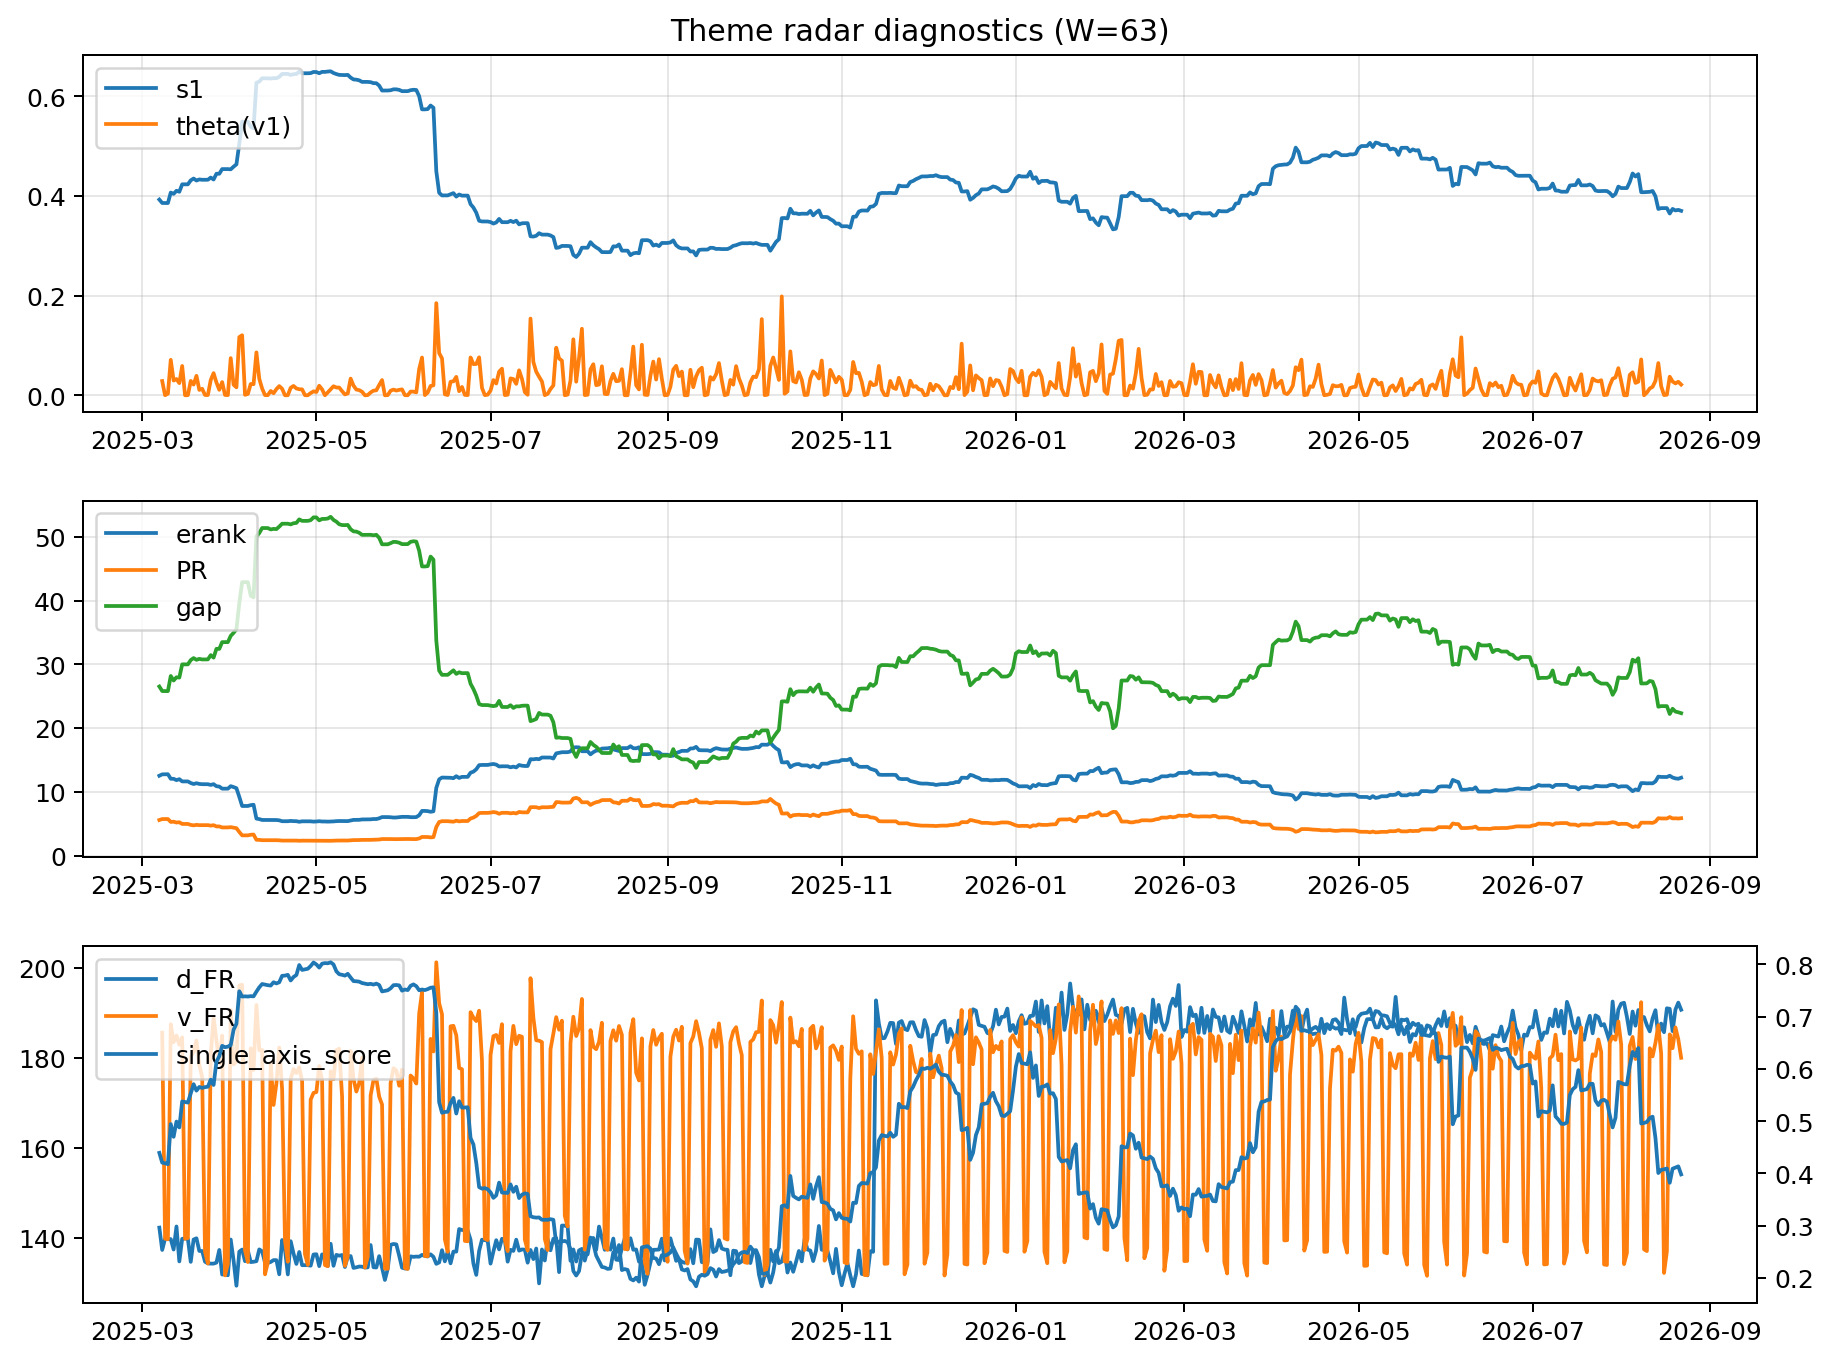
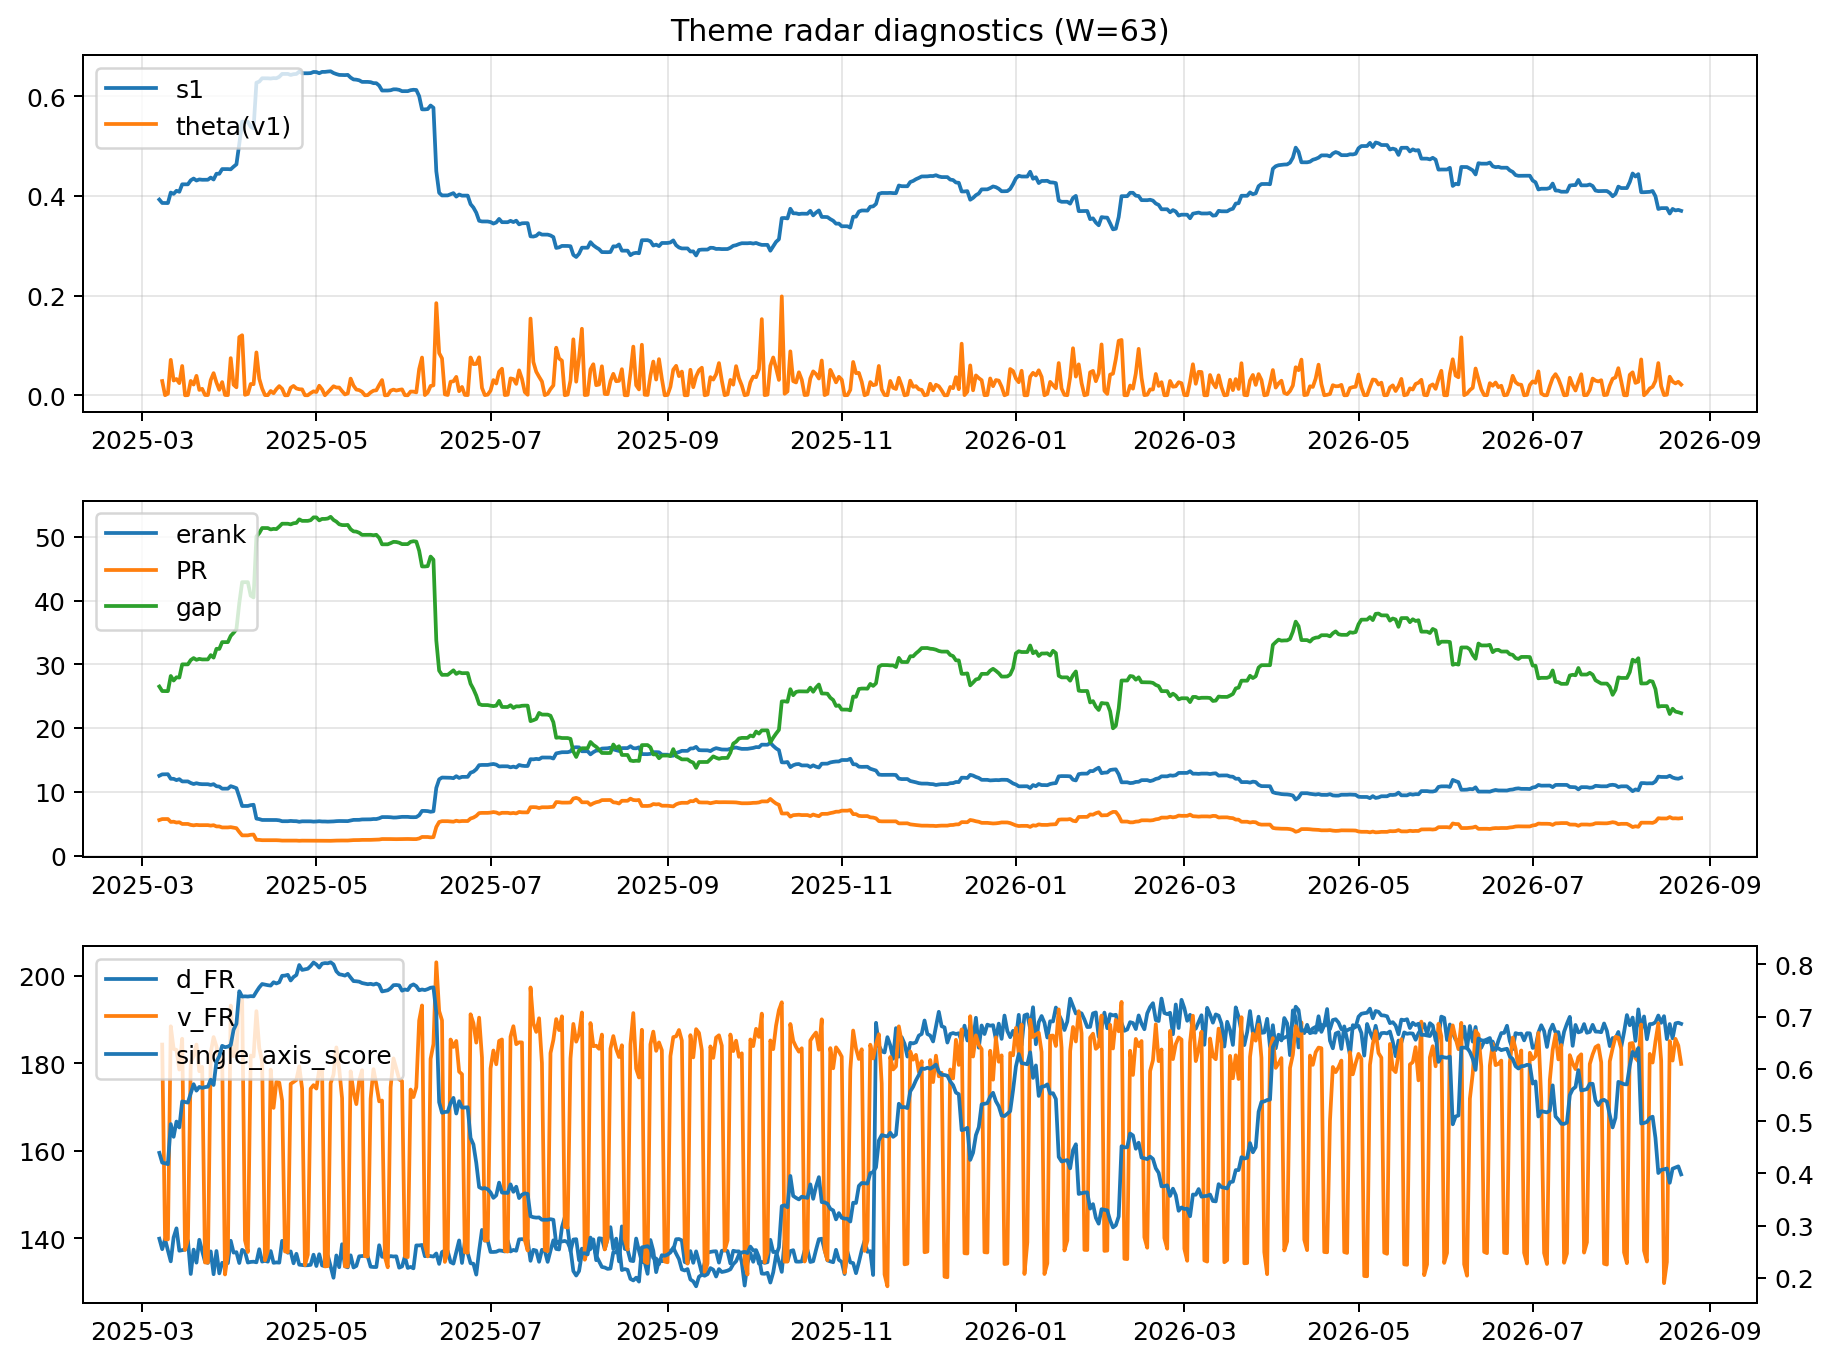
log: 2026-08-22 | sha256:091dc69cb8ea5deb7c7f8fe9b7edb65a18b373c2460720ff60cd4cc79afa245e

diff --git a/logs/2026-08-22.md b/logs/2026-08-22.md
@@ -3,43 +3,43 @@
 ![diagnostic W63](../assets/diagnostic/2026-08-22_W63.png)
 
 ## Leaders (v1) — W=63
-- **Nuclear_Uranium** (0.0920632441473307)
-- Semis (0.0749085782374086)
-- Quantum (0.0644460450684805)
+- **Nuclear_Uranium** (0.0920632402715107)
+- Semis (0.0749085750161188)
+- Quantum (0.0644460446074387)
 
 ## Challengers — W=63
-**v2:** Rates (0.0883575825599987), Semis (0.0730418262619832), Software_Cloud (0.071854327586691)
-**v3:** Metals (0.1012858557088938), Crypto (0.0974244796393443), Genomics_Bio (0.0791085015417845)
+**v2:** Rates (0.0883578775270922), Semis (0.0730418088161798), Software_Cloud (0.0718543115224389)
+**v3:** Metals (0.1012858548502945), Crypto (0.0974244265700481), Genomics_Bio (0.079108472961503)
 
 ## Migration (20D slope) — W=63
 **Top risers:**
-- axis_Quantum: 0.0005440924376378
-- axis_Semis: 0.0004902180267131
-- axis_Space: 0.0003295902488658
-- axis_Nuclear_Uranium: 0.0003157073731286
-- axis_Grid_Power: 0.0002969507951411
-- axis_Commodities: 0.0002482068448066
-- axis_Robotics: 0.000209841681319
-- axis_Clean_Broad: 0.0001986407379424
-- axis_Sector_Health: 0.0001930274203977
-- axis_Equity_US: 0.0001470103057635
+- axis_Quantum: 0.0005440926002844
+- axis_Semis: 0.0004902179520526
+- axis_Space: 0.0003295906800065
+- axis_Nuclear_Uranium: 0.0003157073607177
+- axis_Grid_Power: 0.0002969506871242
+- axis_Commodities: 0.0002482066975169
+- axis_Robotics: 0.0002098416824806
+- axis_Clean_Broad: 0.0001986407175499
+- axis_Sector_Health: 0.0001930274584694
+- axis_Equity_US: 0.0001470103048454
 
 **Top fallers:**
-- axis_Sector_ConsDisc: -0.0001560202669435
-- axis_Sector_Comm: -0.0001672145408897
-- axis_Credit: -0.0001769036055909
-- axis_Sector_Materials: -0.0001783650572111
-- axis_Cyber: -0.0002701480957476
-- axis_MegaCap_AI: -0.0002743657288789
-- axis_Software_Cloud: -0.0003143586385638
-- axis_Crypto: -0.0004497829286178
-- axis_Metals: -0.0005056524177985
-- axis_Rates: -0.0006378885903504
+- axis_Sector_ConsDisc: -0.0001560202826437
+- axis_Sector_Comm: -0.0001672144962669
+- axis_Credit: -0.0001769049426684
+- axis_Sector_Materials: -0.0001783651862729
+- axis_Cyber: -0.0002701480816958
+- axis_MegaCap_AI: -0.0002743656916943
+- axis_Software_Cloud: -0.0003143586246589
+- axis_Crypto: -0.0004497827095104
+- axis_Metals: -0.0005056522707196
+- axis_Rates: -0.0006378879054184
 
 ## Risk line (W=63)
-- s1: 0.3700332200564725
-- theta_v1: 0.0214820638949215
-- v_FR: 180.04265738969724
+- s1: 0.3700332291965126
+- theta_v1: 0.0214820581131006
+- v_FR: 179.86606751270506
 - single_axis_score: 0.39812734082397
 
 ## Interpretation
@@ -48,7 +48,7 @@
 - Action: Tomorrow watchlist: Quantum, Semis, Space, Nuclear_Uranium, Grid_Power + v2_top1=Rates
 - Action: Hedge note: normal correlation stability.
 
-- Percentiles (W=63 history): vfr_pct=0.46, theta_pct=0.54, s1_pct=0.32, score_pct=0.34.
+- Percentiles (W=63 history): vfr_pct=0.45, theta_pct=0.54, s1_pct=0.32, score_pct=0.34.
 
 ---
[2 lines of base64/hex data omitted]
